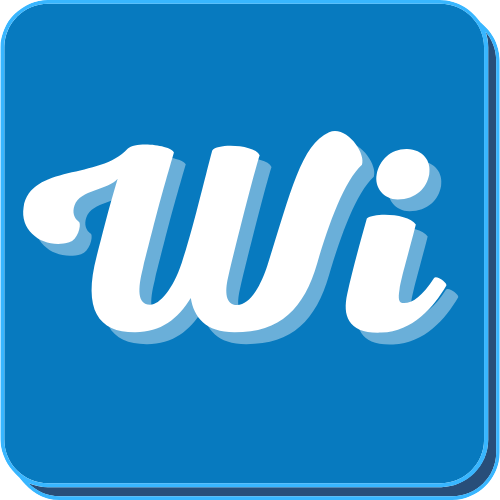
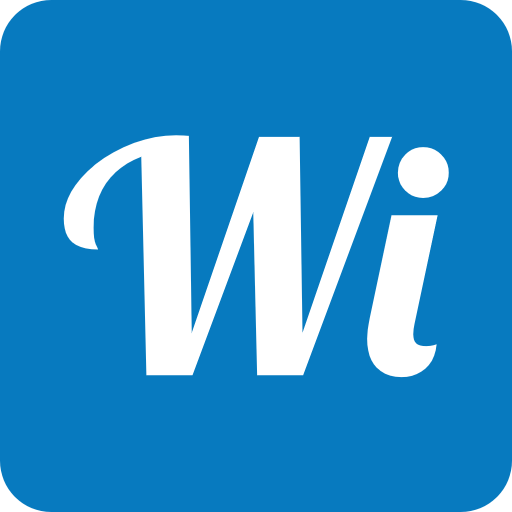
Modificacion del header, retoque del icono

Changed region(s): [[0.0, 0.0, 1.0, 1.0]]

diff --git a/css/style.css b/css/style.css
@@ -20,7 +20,7 @@ h1,h2,h3,h4,p,a{
     justify-content: center;
     background-color: #077abf;
     font-size: 14px;
-    border: 10px;
+    border: 15px;
     margin: 10px  auto;
     padding: 5px 40px;
     cursor:pointer;
@@ -55,16 +55,14 @@ h1,h2,h3,h4,p,a{
     flex-flow: row wrap;
     align-items: center;
     justify-content:space-around;
-
-    border-bottom: 1px solid #077abf;
     position: sticky;
     top: 0;
+    border-bottom: 1px solid #077abf;
 
-
-    background-color: #12a9ad;
-    background-image: linear-gradient(120deg, #077abf, #12a9ad);
-    /* background-color: #159957;
-    background-image: linear-gradient(120deg, #155799, #159957); */
+    /* background-color: #12a9ad; */
+    /* background-image: radial-gradient(circle al, #077abf, #12a9ad); */
+    /* background-color: #159957; */
+    /* background-image: linear-gradient(120deg, #05aaab, #385977); */
 
 }
 
@@ -82,7 +80,7 @@ h1,h2,h3,h4,p,a{
 }
 
 #header .header__menu li a{
-    color: #fff;
+    color: #757575;
     font-family: 'Oxygen', sans-serif;    
     font-size: 12px;
     text-decoration: none;

diff --git a/pages/servicios.html b/pages/servicios.html
@@ -4,8 +4,8 @@
     <meta charset="UTF-8">
     <meta http-equiv="X-UA-Compatible" content="IE=edge">
     <meta name="viewport" content="width=device-width, initial-scale=1.0">
-    <title>Servicios</title>
-    <link rel="icon" type="" href="../img/ico.png" sizes="32x32">
+    <title>Widas</title>
+    <link rel="icon" type="" href="../img/favicon-32x32.png">
     <link rel="stylesheet" href="../css/style.css">
     <!-- Font -->
     <link rel="preconnect" href="https://fonts.googleapis.com">

diff --git a/pages/contactos.html b/pages/contactos.html
@@ -4,8 +4,8 @@
     <meta charset="UTF-8">
     <meta http-equiv="X-UA-Compatible" content="IE=edge">
     <meta name="viewport" content="width=device-width, initial-scale=1.0">
-    <title>Contacto</title>
-    <link rel="icon" type="" href="../img/ico.png" sizes="32x32">
+    <title>Widas</title>
+    <link rel="icon" type="" href="../img/favicon-32x32.png">
     <link rel="stylesheet" href="../css/style.css">
     <!-- Font -->
     <link rel="preconnect" href="https://fonts.googleapis.com">

diff --git a/pages/nosotros.html b/pages/nosotros.html
@@ -4,8 +4,8 @@
     <meta charset="UTF-8">
     <meta http-equiv="X-UA-Compatible" content="IE=edge">
     <meta name="viewport" content="width=device-width, initial-scale=1.0">
-    <title>Nosotros</title>
-    <link rel="icon" type="" href="../img/ico.png" sizes="32x32">
+    <title>Widas</title>
+    <link rel="icon" type="" href="../img/favicon-32x32.png">
     <link rel="stylesheet" href="../css/style.css">
     <!-- Font -->
     <link rel="preconnect" href="https://fonts.googleapis.com">

diff --git a/pages/precios.html b/pages/precios.html
@@ -4,8 +4,8 @@
     <meta charset="UTF-8">
     <meta http-equiv="X-UA-Compatible" content="IE=edge">
     <meta name="viewport" content="width=device-width, initial-scale=1.0">
-    <title>Precios</title>
-    <link rel="icon" type="" href="../img/ico.png" sizes="32x32">
+    <title>Widas</title>
+    <link rel="icon" type="" href="../img/favicon-32x32.png">
     <link rel="stylesheet" href="../css/style.css">
     <!-- Font -->
     <link rel="preconnect" href="https://fonts.googleapis.com">

diff --git a/index.html b/index.html
@@ -4,8 +4,8 @@
     <meta charset="UTF-8">
     <meta http-equiv="X-UA-Compatible" content="IE=edge">
     <meta name="viewport" content="width=device-width, initial-scale=1.0">
-    <title>widas</title>
-    <link rel="icon" type="" href="./img/ico.png" sizes="32x32">
+    <title>Widas</title>
+    <link rel="icon" type="" href="./img/favicon-32x32.png">
     <link rel="stylesheet" href="./css/style.css">
     <!-- Font -->
     <link rel="preconnect" href="https://fonts.googleapis.com">
